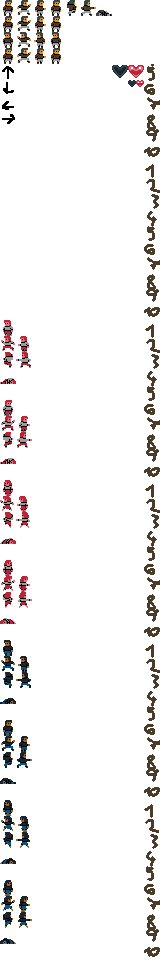
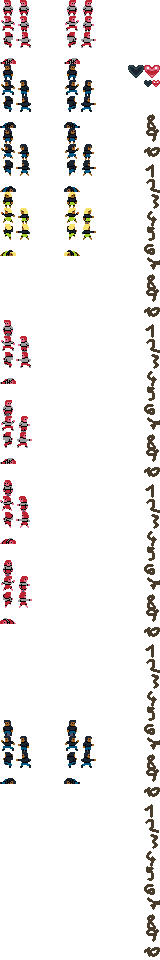
"player draw rework"

diff --git a/src/inc/cpp/player.cpp b/src/inc/cpp/player.cpp
@@ -5,8 +5,6 @@ Game_Player::Game_Player()
     local_use=false;
     local_player_pos.x=0;
     local_player_pos.y=0;
-    current_tile_left=0;
-    current_tile_right=current_tile_left+50;
     current_draw_offset=0;
     local_collision.x=0;
     local_collision.y=0;
@@ -48,49 +46,56 @@ void Game_Player::DrawLocalPlayer(Game_Assets &OldeAssets,float &d_time,bool deb
         DrawRectanglePro(local_collision,(Vector2){0,0},0.0f,RED);
     }
 
+    if(d_time>0.0 && d_time<0.5) current_draw_offset=0;
+    if(d_time>0.5 && d_time<1.0) current_draw_offset=1;
+    if(d_time>1.0 && d_time<1.5) current_draw_offset=0;
+    if(d_time>1.5 && d_time<2.0) current_draw_offset=1;
+    if(d_time>2.0 && d_time<2.5) current_draw_offset=0;
+    if(d_time>2.5 && d_time<3.0) current_draw_offset=1;
 
-    if(d_time>0.0 && d_time<0.5) current_draw_offset=1;
-    if(d_time>0.5 && d_time<1.0) current_draw_offset=2;
-    if(d_time>1.0 && d_time<1.5) current_draw_offset=1;
-    if(d_time>1.5 && d_time<2.0) current_draw_offset=2;
-    if(d_time>2.0 && d_time<2.5) current_draw_offset=1;
-    if(d_time>2.5 && d_time<3.0) current_draw_offset=2;
-
-    if(pl_dir[player_num]=='w' || pl_dir[player_num]=='q' || pl_dir[player_num]=='e')
+    if(pl_dir[player_num]=='q' || pl_dir[player_num]=='a' || pl_dir[player_num]=='z')
     {
-        if(pl_act[player_num]=='w')
-        {
-            DrawTextureRec(OldeAssets.AvatarsSprite,tiles[0+current_draw_offset],local_player_pos,WHITE);
-        }
-        else DrawTextureRec(OldeAssets.AvatarsSprite,tiles[0],local_player_pos,WHITE);
+        pl_side[player_num]=0;
+    }
+    if(pl_dir[player_num]=='e' || pl_dir[player_num]=='d' || pl_dir[player_num]=='c')
+    {
+        pl_side[player_num]=4;
+    }
+    int avatar_offset=0;
+    if(pl_avatar[player_num]==0) avatar_offset=0;
+    else if(pl_avatar[player_num]==1) avatar_offset=40;
+    else if(pl_avatar[player_num]==2) avatar_offset=80;
+    else if(pl_avatar[player_num]==3) avatar_offset=120;
+    else avatar_offset=0;
+
+    int offset=0;
+
+    if(pl_act[player_num]=='w')
+    {
+        offset=avatar_offset+pl_side[player_num]+10;
+        DrawTextureRec(OldeAssets.AvatarsSprite,tiles[offset+current_draw_offset],local_player_pos,WHITE);
+    }
+    else
+    {
+        offset=avatar_offset+pl_side[player_num];
+        DrawTextureRec(OldeAssets.AvatarsSprite,tiles[offset],local_player_pos,WHITE);
     }
 
-    if(pl_dir[player_num]=='x' || pl_dir[player_num]=='z' || pl_dir[player_num]=='c')
-    {
-        if(pl_act[player_num]=='w')
-        {
-            DrawTextureRec(OldeAssets.AvatarsSprite,tiles[10+current_draw_offset],local_player_pos,WHITE);
-        }
-        else DrawTextureRec(OldeAssets.AvatarsSprite,tiles[10],local_player_pos,WHITE);
-    }
+    // avatars only can look left or right
+    // so keys "w" and "s" should not modify direction of rendering
 
-    if(pl_dir[player_num]=='a')
-    {
-        if(pl_act[player_num]=='w')
-        {
-            DrawTextureRec(OldeAssets.AvatarsSprite,tiles[20+current_draw_offset],local_player_pos,WHITE);
-        }
-        else DrawTextureRec(OldeAssets.AvatarsSprite,tiles[20],local_player_pos,WHITE);
-    }
+    // int offset=0;
 
-    if(pl_dir[player_num]=='d')
-    {
-        if(pl_act[player_num]=='w')
-        {
-            DrawTextureRec(OldeAssets.AvatarsSprite,tiles[30+current_draw_offset],local_player_pos,WHITE);
-        }
-        else DrawTextureRec(OldeAssets.AvatarsSprite,tiles[30],local_player_pos,WHITE);
-    }
+    // if(pl_act[player_num]=='w')
+    // {
+    //     offset=pl_avatar[player_num]+pl_side[player_num]+1;
+    //     DrawTextureRec(OldeAssets.AvatarsSprite,tiles[offset+current_draw_offset],local_player_pos,WHITE);
+    // }
+    // else
+    // {
+    //     offset=pl_avatar[player_num]+pl_side[player_num];
+    //     DrawTextureRec(OldeAssets.AvatarsSprite,tiles[offset],local_player_pos,WHITE);
+    // }
 
     // might move this animation to debug menu - for now lets keep it on top to check collisions and interactions
     if(debug_mode)
@@ -108,6 +113,7 @@ void Game_Player::DrawLocalPlayer(Game_Assets &OldeAssets,float &d_time,bool deb
 }
 
 void Game_Player::DrawNetworkPlayer(Game_Assets &OldeAssets,float &d_time)
+// that means local player too
 {
     if(d_time>0.0 && d_time<0.5) current_draw_offset=1;
     if(d_time>0.5 && d_time<1.0) current_draw_offset=2;
@@ -118,7 +124,7 @@ void Game_Player::DrawNetworkPlayer(Game_Assets &OldeAssets,float &d_time)
 
     for(int i=0;i<max_clients;i++)
     {
-        if(pl_active[i]==true)
+        if(pl_active[i]==true) // && pl_active[i]!=player_num)
         {
             if(pl_dir[i]=='w' || pl_dir[i]=='q' || pl_dir[i]=='e')
             {

diff --git a/src/game.cpp b/src/game.cpp
@@ -1,13 +1,4 @@
-//   ___    ___ _______   ________  ___       ________  _______   ___       __   ________  ________  ___       ________  _______      
-//  |\  \  /  /|\  ___ \ |\   __  \|\  \     |\   ___ \|\  ___ \ |\  \     |\  \|\   __  \|\   __  \|\  \     |\   ___ \|\  ___ \     
-//  \ \  \/  / | \   __/|\ \  \|\  \ \  \    \ \  \_|\ \ \   __/|\ \  \    \ \  \ \  \|\  \ \  \|\  \ \  \    \ \  \_|\ \ \   __/|    
-//   \ \    / / \ \  \_|/_\ \  \\\  \ \  \    \ \  \ \\ \ \  \_|/_\ \  \  __\ \  \ \  \\\  \ \   _  _\ \  \    \ \  \ \\ \ \  \_|/__  
-//    \/  /  /   \ \  \_|\ \ \  \\\  \ \  \____\ \  \_\\ \ \  \_|\ \ \  \|\__\_\  \ \  \\\  \ \  \\  \\ \  \____\ \  \_\\ \ \  \_|\ \ 
-//  __/  / /      \ \_______\ \_______\ \_______\ \_______\ \_______\ \____________\ \_______\ \__\\ _\\ \_______\ \_______\ \_______\
-// |\___/ /        \|_______|\|_______|\|_______|\|_______|\|_______|\|____________|\|_______|\|__|\|__|\|_______|\|_______|\|_______|
-// \|___|/                                                                                                                            
-                                                                                                                                   
-                                                                                                                                   
+                                                                                                                                  
 // YeOldeWorld Game Client
 
 // there is no enums or something like that yet
@@ -201,13 +192,10 @@ int main()
     return 0;
 }
 
-// _________ .__  .__               __   
-// \_   ___ \|  | |__| ____   _____/  |_ 
-// /    \  \/|  | |  |/ __ \ /    \   __\
-// \     \___|  |_|  \  ___/|   |  \  |  
-//  \______  /____/__|\___  >___|  /__|  
-//         \/             \/     \/       
-                                                               
+// CCCCC L     I EEEEE NN   N TTTTTTT
+// C     L     I E     N N  N    T
+// C     L     I EEE   N  N N    T
+// CCCCC LLLLL I EEEEE N   NN    T                                                   
 
 int Set_Game(Game_Assets &OldeAssets,Game_Data &OldeSettings,NetworkClient &OldeNet,float &d_time)
 {
@@ -216,7 +204,7 @@ int Set_Game(Game_Assets &OldeAssets,Game_Data &OldeSettings,NetworkClient &Olde
 
     Game_Player OldePlayer;
     
-    float speed_player_move=0.1f; // move this to player class
+    float speed_player_move=0.5f; // move this to player class
     // float speed_camera_movement=0.2f;
     Vector2 localplayer_pointer_pos{};
     // Vector2 camera_localplayer_pos{};
@@ -270,6 +258,8 @@ int Set_Game(Game_Assets &OldeAssets,Game_Data &OldeSettings,NetworkClient &Olde
             OldePlayer.pl_pointer_pos[i]=OldeNet.Clients[i].Position;
             OldePlayer.pl_dir[i]=OldeNet.Clients[i].direction;
             OldePlayer.pl_act[i]=OldeNet.Clients[i].action;
+            OldePlayer.pl_avatar[i]=OldeNet.Clients[i].avatar;
+            OldePlayer.pl_side[i]=0;
         }
     }
 
@@ -362,17 +352,12 @@ int Set_Game(Game_Assets &OldeAssets,Game_Data &OldeSettings,NetworkClient &Olde
 
         if(IsKeyDown(KEY_LEFT_SHIFT) && !show_menu)
         {
+            speed_player_move=1.0f;
+        }
+
+        if(IsKeyUp(KEY_LEFT_SHIFT))
+        {
             speed_player_move=0.5f;
-        }
-
-        if(IsKeyDown(KEY_LEFT_CONTROL) && !show_menu)
-        {
-            speed_player_move=2.0f;
-        }
-
-        if(IsKeyUp(KEY_LEFT_SHIFT) && IsKeyUp(KEY_LEFT_CONTROL))
-        {
-            speed_player_move=0.1f;
         }
 
         if(IsKeyPressed(KEY_SPACE) && !show_menu)
@@ -433,7 +418,7 @@ int Set_Game(Game_Assets &OldeAssets,Game_Data &OldeSettings,NetworkClient &Olde
                 OldeMap.GameCheckCollision(OldePlayer,debug_mode,speed_player_move);
                 OldePlayer.DrawLocalPlayer(OldeAssets,d_time,debug_mode);
                 
-                OldePlayer.DrawNetworkPlayer(OldeAssets,d_time);
+                // OldePlayer.DrawNetworkPlayer(OldeAssets,d_time);
 
                 // if(!debug_hide_objects) OldeMap.DrawObjects(OldeAssets,d_time,render,debug_mode);
                 // OldeMap.DrawRoofs(OldeAssets,OldePlayer.pl_pointer_pos[local_player_id],d_time,render,debug_mode);

diff --git a/src/inc/cpp/networkclient.cpp b/src/inc/cpp/networkclient.cpp
@@ -132,10 +132,22 @@ void NetworkClient::Update(double now,float deltaT,MapTools &OldeMap)
                         Clients[RemotePlayer].hands=event.packet->data[3];
                         Clients[RemotePlayer].backpack_slot0=event.packet->data[4];
                         Clients[RemotePlayer].backpack_slot1=event.packet->data[5];
-                        Clients[RemotePlayer].backpack_slot2=event.packet->data[6];
+                        Clients[RemotePlayer].avatar=event.packet->data[6];
                         memcpy(&Clients[RemotePlayer].Position.x,&event.packet->data[7],sizeof(float));
                         memcpy(&Clients[RemotePlayer].Position.y,&event.packet->data[11],sizeof(float));
+
                     }
+
+
+
+
+
+                    // is this all needs to be inside switch case ?
+                    // rework those as separate functions ?
+
+
+
+
 
                     if(RemotePlayer==LocalPlayerId) // if the sender peer is the same as reciving
                                                     // then it means it can be a map part from server
@@ -224,6 +236,8 @@ void NetworkClient::Update(double now,float deltaT,MapTools &OldeMap)
                             uint16_t mapy=0;
                             memcpy(&mapx,&event.packet->data[6],sizeof(uint16_t));
                             memcpy(&mapy,&event.packet->data[8],sizeof(uint16_t));
+                            Clients[LocalPlayerId].avatar=event.packet->data[10];
+                            printf("Ive got a %d\n",Clients[LocalPlayerId].avatar);
 
                             OldeMap.GameSetMapSize(mapx,mapy);
 
@@ -258,6 +272,10 @@ void NetworkClient::Update(double now,float deltaT,MapTools &OldeMap)
                 server=nullptr;
                 server_disconnect=true;
                 LocalPlayerId=-1;
+                for(int i=0;i<max_clients;i++)
+                {
+                    ZeroRemoteClient(i);
+                }
             break;
         }
     }
@@ -284,6 +302,10 @@ void NetworkClient::Disconnect()
     if(!disconnected)
     {
         enet_peer_reset(server);
+    }
+    for(int i=0;i<max_clients;i++)
+    {
+        ZeroRemoteClient(i);
     }
 }
 

diff --git a/src/inc/cpp/networkhost.cpp b/src/inc/cpp/networkhost.cpp
@@ -79,6 +79,8 @@ void NetworkHost::NetworkHostService(MapTools &OldeMap)
                     Clients[playerId].Active=true;
                     Clients[playerId].ValidPosition=false;
                     Clients[playerId].Peer=event.peer;
+                    Clients[playerId].avatar=(uint8_t)GetRandomValue(0,3);
+                    
 
                     int spawn_point=GetRandomValue(0,3);
                     uint16_t givex=0;
@@ -108,7 +110,7 @@ void NetworkHost::NetworkHostService(MapTools &OldeMap)
 
                     printf("Client %d spawned at: x%d y%d\n",playerId,givex,givey);
 
-                    uint8_t buffer[10]{};
+                    uint8_t buffer[12]{};
                     buffer[0]=AssignClientNumber; // send this info to connecting peer
                     buffer[1]=(uint8_t)playerId; // with number
                     memcpy(&buffer[2],&givex,sizeof(uint16_t));
@@ -117,6 +119,11 @@ void NetworkHost::NetworkHostService(MapTools &OldeMap)
                     uint16_t mapy=OldeMap.EditorGetMaxY();
                     memcpy(&buffer[6],&mapx,sizeof(uint16_t));
                     memcpy(&buffer[8],&mapy,sizeof(uint16_t));
+                    buffer[10]=Clients[playerId].avatar;
+                    printf("send him a %d\n",Clients[playerId].avatar);
+
+                    // CLEAN UP THIS MESS!!!!
+                    // MOVE IT TO CLASS TEMPLATE FOR EVERY TYPE
 
                     uint8_t buffer_for_actives[2]{};
                     buffer_for_actives[0]=NewPlayer; //send this info to already connected clients
@@ -164,7 +171,7 @@ void NetworkHost::NetworkHostService(MapTools &OldeMap)
                     Clients[playerId].hands=event.packet->data[3];
                     Clients[playerId].backpack_slot0=event.packet->data[4];
                     Clients[playerId].backpack_slot1=event.packet->data[5];
-                    Clients[playerId].backpack_slot2=event.packet->data[6];
+                    Clients[playerId].avatar=event.packet->data[6];
                     memcpy(&Clients[playerId].x,&event.packet->data[7],sizeof(float));
                     memcpy(&Clients[playerId].y,&event.packet->data[11],sizeof(float));
                     memcpy(&Clients[playerId].posx,&event.packet->data[15],sizeof(uint16_t));

diff --git a/src/inc/network.hpp b/src/inc/network.hpp
@@ -24,7 +24,7 @@ const size_t map_offset_start_t=6;
 const enet_uint32 network_host_timeout=5;
 
 
-struct NetworkClientInfo // SERVER STRUCTURE - MAKE A BETTER STRUCT NAME!!!
+struct ServerInfo
 {
     bool Active; // is player slot active
     bool ValidPosition; 
@@ -35,6 +35,7 @@ struct NetworkClientInfo // SERVER STRUCTURE - MAKE A BETTER STRUCT NAME!!!
     uint8_t backpack_slot0;     // 3
     uint8_t backpack_slot1;     // 4
     uint8_t backpack_slot2;     // 5
+    uint8_t avatar;
     float x;                    // 6
     float y;                    // 10
     uint16_t posx;
@@ -45,7 +46,7 @@ struct NetworkClientInfo // SERVER STRUCTURE - MAKE A BETTER STRUCT NAME!!!
     float dy;
 };
 
-struct NetworkRemoteClientInfo // CLIENT STRUCTURE - MAKE A BETTER STRUCT NAME!!!
+struct ClientInfo
 {
     bool Active;
     Vector2 Position;
@@ -57,10 +58,12 @@ struct NetworkRemoteClientInfo // CLIENT STRUCTURE - MAKE A BETTER STRUCT NAME!!
     uint8_t backpack_slot0;
     uint8_t backpack_slot1;
     uint8_t backpack_slot2;
+    uint8_t avatar;
     uint16_t posx;
     uint16_t posy;
     uint16_t act_posx;
     uint16_t act_posy;
+
 };
 
 struct MapFrame

diff --git a/src/inc/player.hpp b/src/inc/player.hpp
@@ -1,5 +1,6 @@
 #pragma once
 #include"raylib.h"
+#include<iostream>
 #include"assets.hpp"
 #include"network.hpp"
 
@@ -10,8 +11,10 @@ class Game_Player
     const int pngarraywidth=10;
     const int pngarrayheight=60;
     int player_num;
+    char pl_avatar[max_clients]{};
     char pl_dir[max_clients]{};
     char pl_act[max_clients]{};
+    uint8_t pl_side[max_clients]{};
     Vector2 pl_pointer_pos[max_clients]{};
     bool pl_active[max_clients]{};
     Rectangle local_collision;
@@ -34,8 +37,7 @@ class Game_Player
     void SetPlayerNumber(int num);
 
     private:
-    int current_tile_left;
-    int current_tile_right;
+    int pl_avatar_offset[max_clients]{};
     int current_draw_offset;
     Vector2 local_player_pos;
     Rectangle tiles[700]; // 60x10=600 but with extra space just in case

diff --git a/src/inc/networkclient.hpp b/src/inc/networkclient.hpp
@@ -16,7 +16,7 @@ class NetworkClient
     ENetAddress address{};
     ENetPeer    *server{};
 
-    NetworkRemoteClientInfo Clients[max_clients]{};
+    ClientInfo Clients[max_clients]{};
 
     uint16_t local_spawn_point_x;
     uint16_t local_spawn_point_y;

diff --git a/src/inc/networkhost.hpp b/src/inc/networkhost.hpp
@@ -13,7 +13,7 @@ class NetworkHost
     ENetHost    *server;
     ENetAddress address{};
 
-    NetworkClientInfo Clients[max_clients]{};
+    ServerInfo Clients[max_clients]{};
     int who_is_talking_now=0;
 
     bool NetworkInitialize();